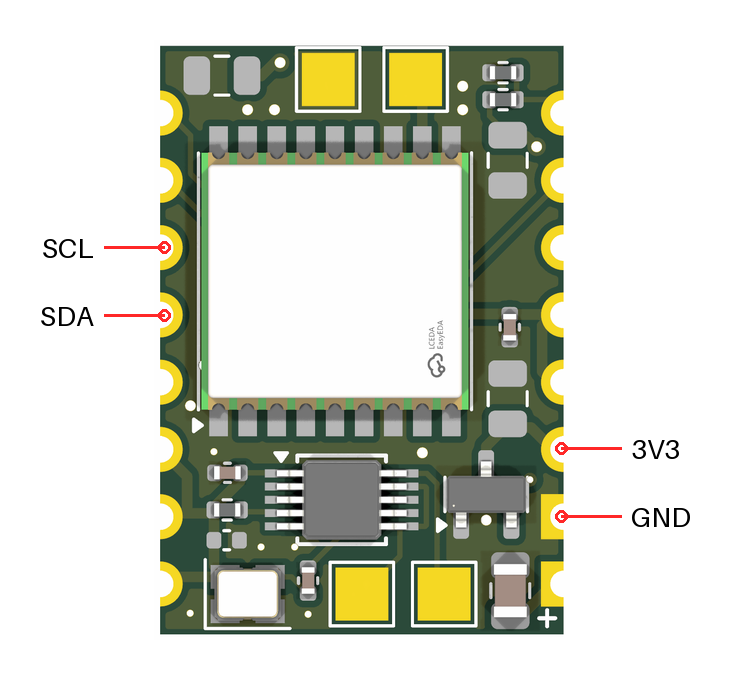
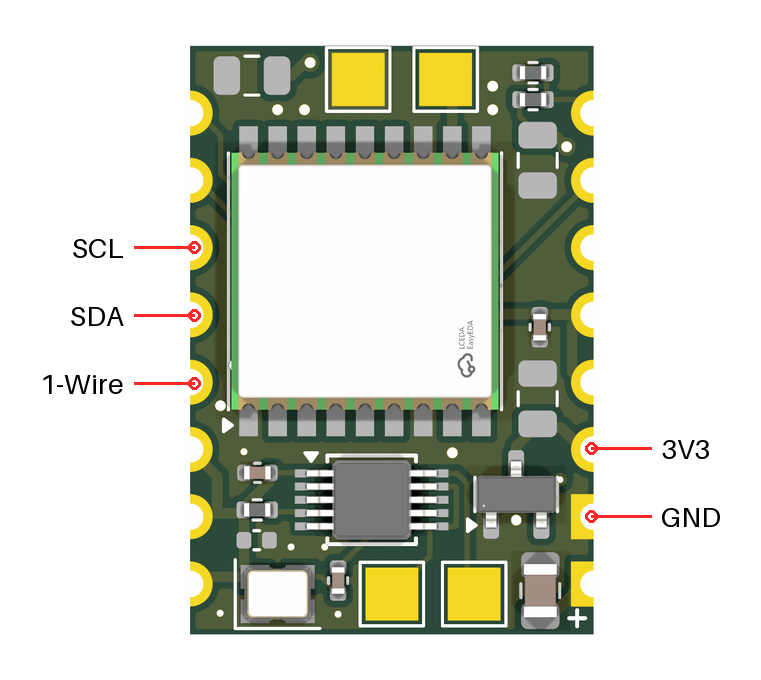
Documented 1-wire connections

diff --git a/README.md b/README.md
@@ -25,12 +25,15 @@ Vagabond1 boards can be assembled at JLCPCB using
 An [alternative BOM](https://github.com/wsprtv/vagabond1/tree/main/fabrication/options/jlcpcb_bom_si5351a.csv)
 is provided replacing MS5351m with Si5351a. While
 the two parts have nearly identical performance, Si5351a consumes
-[less power](#power-measurements) but also costs more.
+[less power](#power-measurements).
 
 Select 0.8mm board thickness.
 
 When soldering Vagabond1 and ESP32 C3 Super Mini boards together, orient them
 so that the GPS module is away from the USB-C port.
+
+The recommended GPS antenna is a magnetic wire (~30AWG) dipole with
+a ~30mm twisted feedline and ~46mm legs.
 
 ## ESP32 C3 Super Mini Modifications
 
@@ -54,16 +57,24 @@ and the LED.
 
 <img src="images/connections1.png" height=500>
 
-## I2C Sensor Connections
+## Sensor Connections
 
 <img src="images/connections2.png" height=450>
 
-In Nomad CT handlers, initialize sensor I2C as follows:
+Your I2C sensor should have a 4.7k or 10k pullup resistor on SCL.
+A pullup resistor on SDA is optional. In Nomad CT handlers,
+initialize I2C as follows:
 
 ```
 from machine import I2C, Pin
 i2c = I2C(0, scl = Pin(10), sda = Pin(9), freq = 100000)
 ```
+
+For 1-Wire protocols (such as DS18B20 temperature sensors), use pin
+8 for the data line. This pin is shared with the blue LED,
+so disable the LED in settings to avoid interference. More than one
+sensor may be attached to the same data line, and no pullup
+resistor is needed.
 
 ## Power Measurements ##
 
